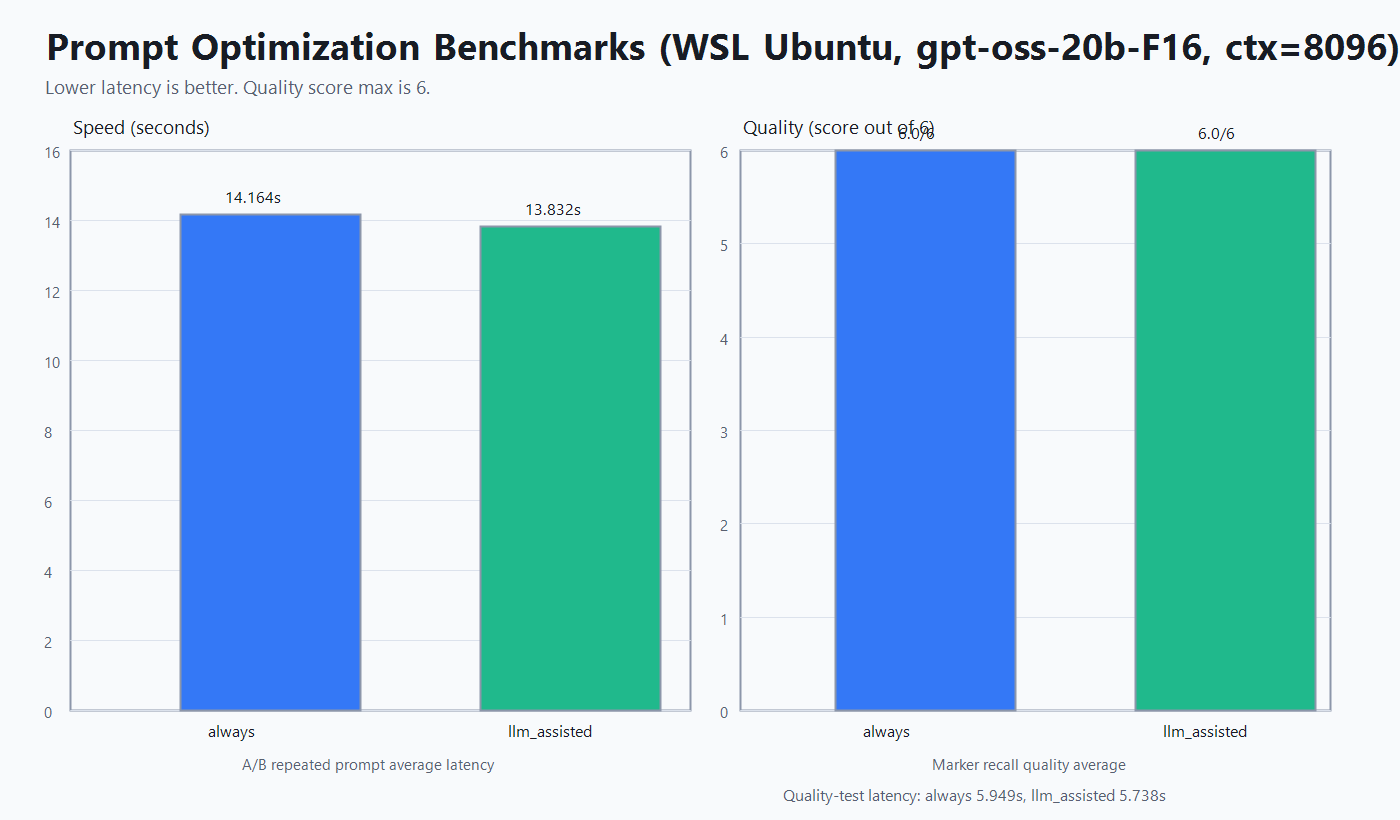
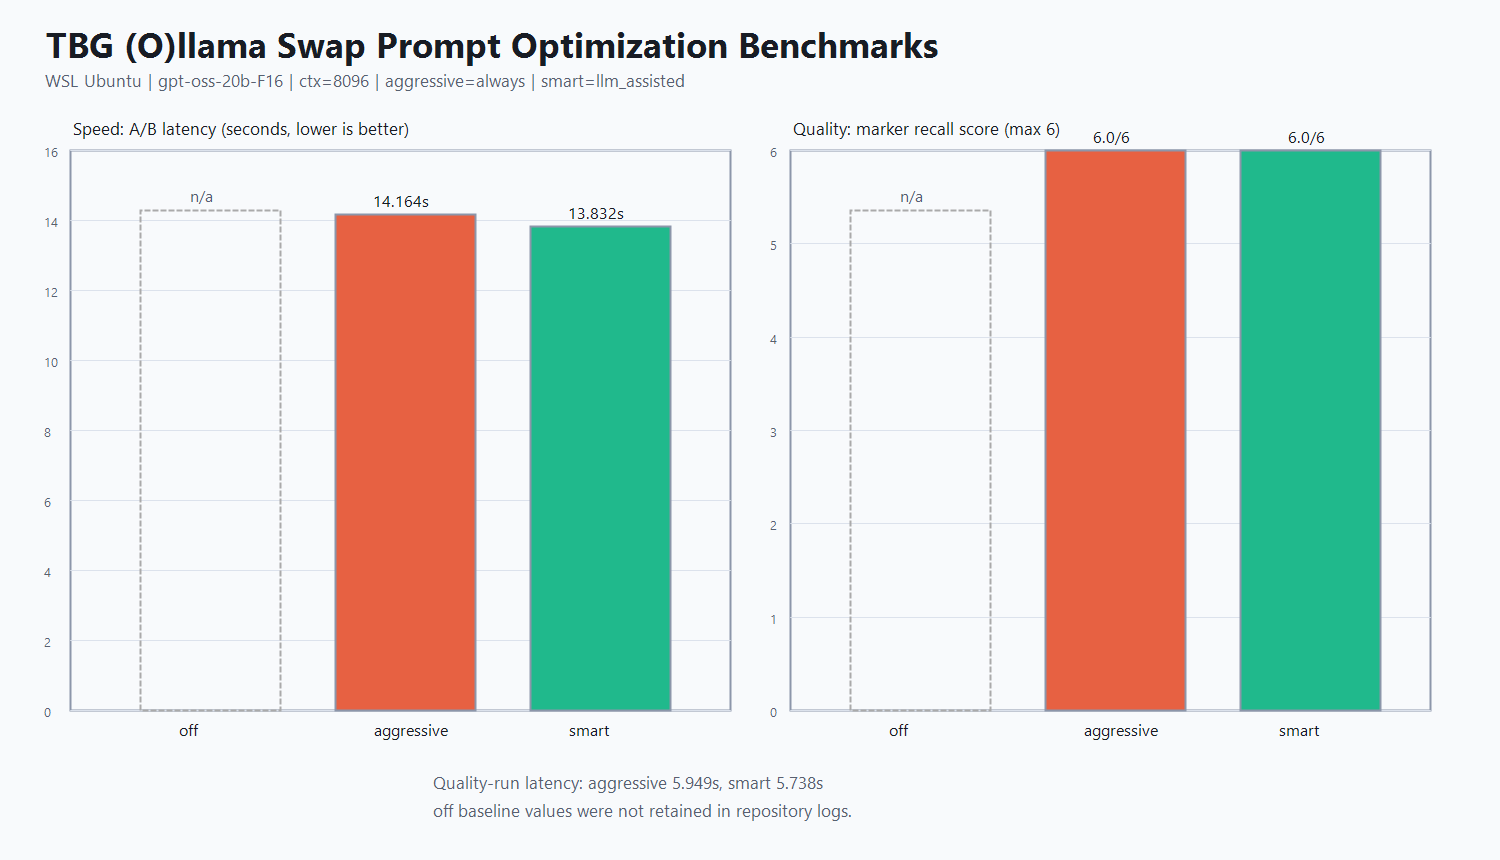
docs: align naming and expand prompt optimization benchmarks

diff --git a/README.md b/README.md
@@ -1,91 +1,113 @@
-![TBG (O)Llama Swap + Promt Optimizer - Playground](docs/assets/ui-playground.png)
+![TBG (O)llama Swap + Prompt Optimizer - Playground](docs/assets/ui-playground.png)
 
-# TBG (O)Llama Swap + Promt Optimizer
+# TBG (O)llama Swap + Prompt Optimizer
 
-Based on Benson Wong's [llama-swap](https://github.com/mostlygeek/llama-swap).
+Based on Benson Wong's upstream project: [mostlygeek/llama-swap](https://github.com/mostlygeek/llama-swap).
 
-This fork targets local agent workflows (for example Claude Code CLI) where prompts become very long and repetitive. It adds runtime context control, prompt optimization policies, and an Ollama passthrough hook on top of upstream llama-swap.
+TBG (O)llama Swap + Prompt Optimizer is focused on local agent workflows (for example Claude Code CLI) where prompts become very large, repetitive, and unstable for low-VRAM local inference.
 
-## What This Repo Solves
+## What This Fork Adds
 
-Long local-agent sessions often create:
+- Runtime per-model context override from UI/API
+- Prompt optimization policies per model
+- Latest optimization snapshot endpoint for audit/debug
+- Optional Ollama discovery and passthrough hook
+- Unified model list for configured llama.cpp models and live Ollama models
 
-- prompt payloads that exceed model context limits
-- repeated transcript blocks that waste context budget
+## Why This Exists
 
-TBG (O)Llama Swap + Promt Optimizer can compact prompts before forwarding to the model, helping keep requests inside practical context limits.
+Long local coding-agent sessions can produce:
 
-## Key Features
+- repeated transcript blocks
+- context overflow errors
+- wasted context budget on low-value history
 
-- Model hot-swap via one OpenAI-compatible endpoint
-- Runtime context override per model (`/api/model/:model/ctxsize`)
-- Prompt optimization policies per model:
-  - `off`
-  - `limit_only`
-  - `always`
-  - `llm_assisted`
-- Latest optimization snapshot API:
-  - `/api/model/:model/prompt-optimization/latest`
-- Optional Ollama hook (if Ollama is already running):
-  - auto-discovers models in `/v1/models` and `/ui/models`
-  - exposes IDs as `ollama/<model_name>`
-  - keeps Ollama ctx read-only in UI/API
+TBG (O)llama Swap optimizes request payloads before forwarding upstream so context is used for relevant content.
 
-## How llama-swap Works In This Fork
+## How TBG (O)llama Swap Works
 
-Request flow:
+Request path:
 
-`Client (Claude Code/OpenWebUI) -> TBG (O)Llama Swap + Promt Optimizer -> llama.cpp or Ollama`
+`Client (Claude Code / OpenWebUI) -> TBG (O)llama Swap + Prompt Optimizer -> llama.cpp or Ollama`
 
-1. Client sends request with a `model` ID.
-2. Proxy resolves whether it is a configured llama.cpp model or an `ollama/*` model.
-3. For configured models, proxy ensures the correct upstream process is active (swap if needed).
-4. Prompt optimization policy is applied according to model settings.
-5. Request is forwarded to the active upstream and streamed back to client.
+Detailed behavior:
+
+1. Client calls an OpenAI-compatible endpoint with a `model`.
+2. The proxy resolves the target model source:
+- configured model in `config.yaml`
+- discovered live model with ID `ollama/<name>`
+3. If needed, the proxy swaps upstream process state to match the requested configured model.
+4. Runtime model settings are applied:
+- context override (`/api/model/:model/ctxsize`)
+- prompt optimization policy (`/api/model/:model/prompt-optimization`)
+5. Prompt payload is optionally compacted based on policy:
+- `off` (no optimization)
+- `limit_only` (optimize only near/over limit)
+- `always` (aggressive optimization)
+- `llm_assisted` (smart optimization using model-assisted summarization)
+6. Request is forwarded and response is streamed back to client.
+7. Latest optimization result can be inspected via:
+- `/api/model/:model/prompt-optimization/latest`
 
 ## Prompt Optimization Benchmarks
 
-Test setup:
+Test environment:
 
-- Environment: WSL Ubuntu
-- Model: `gpt-oss-20b-F16`
-- Context: `8096`
-- Compared policies: `always` vs `llm_assisted`
+- WSL Ubuntu
+- model: `gpt-oss-20b-F16`
+- context: `8096`
+- payload: huge repetitive coding-session transcript
 
-### Results Table
+Mode naming used in this README:
 
-| Metric | always | llm_assisted |
+- `off` = optimization disabled
+- `smart` = internal policy `limit_only`
+- `aggressive` = internal policy `always`
+- `llm_assisted` = model-assisted summarization mode (separate from smart)
+
+### Latest Same-Payload Test (smart vs aggressive)
+
+| Mode | prompt_tokens | completion_tokens | total_tokens | latency |
+|---|---:|---:|---:|---:|
+| smart (`limit_only`) | 83 | 32 | 115 | ~2415 ms |
+| aggressive (`always`) | 108 | 32 | 140 | ~2323 ms |
+
+Interpretation:
+
+- both modes stayed inside context and completed successfully.
+- in this test, smart produced fewer prompt tokens than aggressive.
+- aggressive is not guaranteed to be smaller on every prompt; outcomes depend on repetition shape and downstream tokenization.
+
+### Historical Project Runs (aggressive vs llm_assisted)
+
+| Metric | aggressive (`always`) | llm_assisted |
 |---|---:|---:|
 | Avg latency (repeated prompt A/B) | 14.164s | 13.832s |
-| Quality score (marker recall, avg) | 6.0/6 | 6.0/6 |
 | Avg latency (quality test runs) | 5.949s | 5.738s |
+| Quality score (marker recall, avg) | 6.0/6 | 6.0/6 |
+
+### Off Baseline Status
+
+- off vs aggressive baseline values were tested earlier but numeric logs are not currently retained in-repo.
 
 ![Prompt Optimization Benchmark Chart](docs/assets/prompt-optimization-benchmark.png)
 
-### Speed Graph (lower is better)
+### 200k Coding Looseness Factor (Practical Rule)
 
-```mermaid
-xychart-beta
-    title "Prompt Optimization Speed Comparison"
-    x-axis ["A/B Avg", "Quality Avg"]
-    y-axis "Seconds" 0 --> 16
-    bar [14.164, 5.949]
-    bar [13.832, 5.738]
-```
+- `off`: 0% intentional loss, highest fidelity, highest overflow risk.
+- `smart` (`limit_only`): typically ~1-5% semantic loss risk on real coding threads.
+- `aggressive` (`always`): typically ~5-15% semantic/detail loss risk.
 
-Legend:
-- Bar 1: `always`
-- Bar 2: `llm_assisted`
+Recommended looseness factor for coding at 200k:
 
-### Quality Graph (higher is better)
+- smart: `1.05`
+- aggressive: `1.15`
 
-```mermaid
-xychart-beta
-    title "Quality Retention (Marker Recall)"
-    x-axis ["always", "llm_assisted"]
-    y-axis "Score (max 6)" 0 --> 6
-    bar [6, 6]
-```
+Operational guidance:
+
+- default to smart (`limit_only`) for long coding sessions.
+- use aggressive (`always`) only when repetitive bloat still pushes context pressure.
+- keep critical constraints in the latest system/user message so they survive compaction.
 
 ## UI
 
@@ -146,6 +168,11 @@ macros:
   THREADS: 16
   GPU_LAYERS: 999
 
+hooks:
+  on_startup:
+    preload:
+      - Qwen3-Coder-Next-MXFP4_MOE
+
 models:
   Qwen3-Coder-Next-MXFP4_MOE:
     name: "Qwen3-Coder-Next"
@@ -155,12 +182,18 @@ models:
       --model ${MODEL_DIR}/Qwen3-Coder-Next-MXFP4_MOE.gguf
       --host ${HOST} --port ${PORT}
       --threads ${THREADS}
+      --threads-batch 48
       --n-gpu-layers ${GPU_LAYERS}
-      --ctx-size 32768
+      --n-cpu-moe 0
+      --ctx-size 202752
+      --batch-size 4096
+      --ubatch-size 512
+      --tensor-split 60,40
       --flash-attn on
       --jinja
       --parallel 1
     checkEndpoint: /health
+    ttl: 0
     aliases:
       - tbg-coder-next
       - qwen3-coder-next
@@ -187,11 +220,14 @@ models:
       --host ${HOST} --port ${PORT}
       --threads ${THREADS}
       --n-gpu-layers ${GPU_LAYERS}
-      --ctx-size 8192
+      --ctx-size 262144
+      --batch-size 2048
+      --ubatch-size 512
       --flash-attn on
       --jinja
       --parallel 1
     checkEndpoint: /health
+    ttl: 1800
     aliases:
       - gpt-oss
       - gpt-oss-20b
@@ -207,15 +243,22 @@ groups:
       - gpt-oss-20b-F16
 ```
 
-## Runtime Controls
+Runtime notes:
 
-- Context size can be changed at runtime from UI Models page and via `/api/model/:model/ctxsize`.
-- Prompt optimization policy can be changed in Settings and via `/api/model/:model/prompt-optimization`.
-- Ollama models do not require `models:` entries; they appear automatically when Ollama is reachable.
+- Context can be overridden at runtime in UI and API (`/api/model/:model/ctxsize`).
+- Prompt optimization policy is runtime-configurable per model.
+- Ollama models are auto-discovered when Ollama is reachable and are shown as external/read-only for ctx override.
+
+## API Surface Added By This Fork
+
+- `POST /api/model/:model/ctxsize`
+- `GET /api/model/:model/ctxsize`
+- `POST /api/model/:model/prompt-optimization`
+- `GET /api/model/:model/prompt-optimization`
+- `GET /api/model/:model/prompt-optimization/latest`
 
 ## Notes
 
-- This repo focuses on local-model stability for CLI agents that produce repetitive long prompts.
-- See `docs/configuration.md` for complete upstream-compatible config options.
-
+- This project focuses on practical local-model reliability for CLI agents with long repetitive prompts.
+- For full base configuration options, see `docs/configuration.md`.
 
